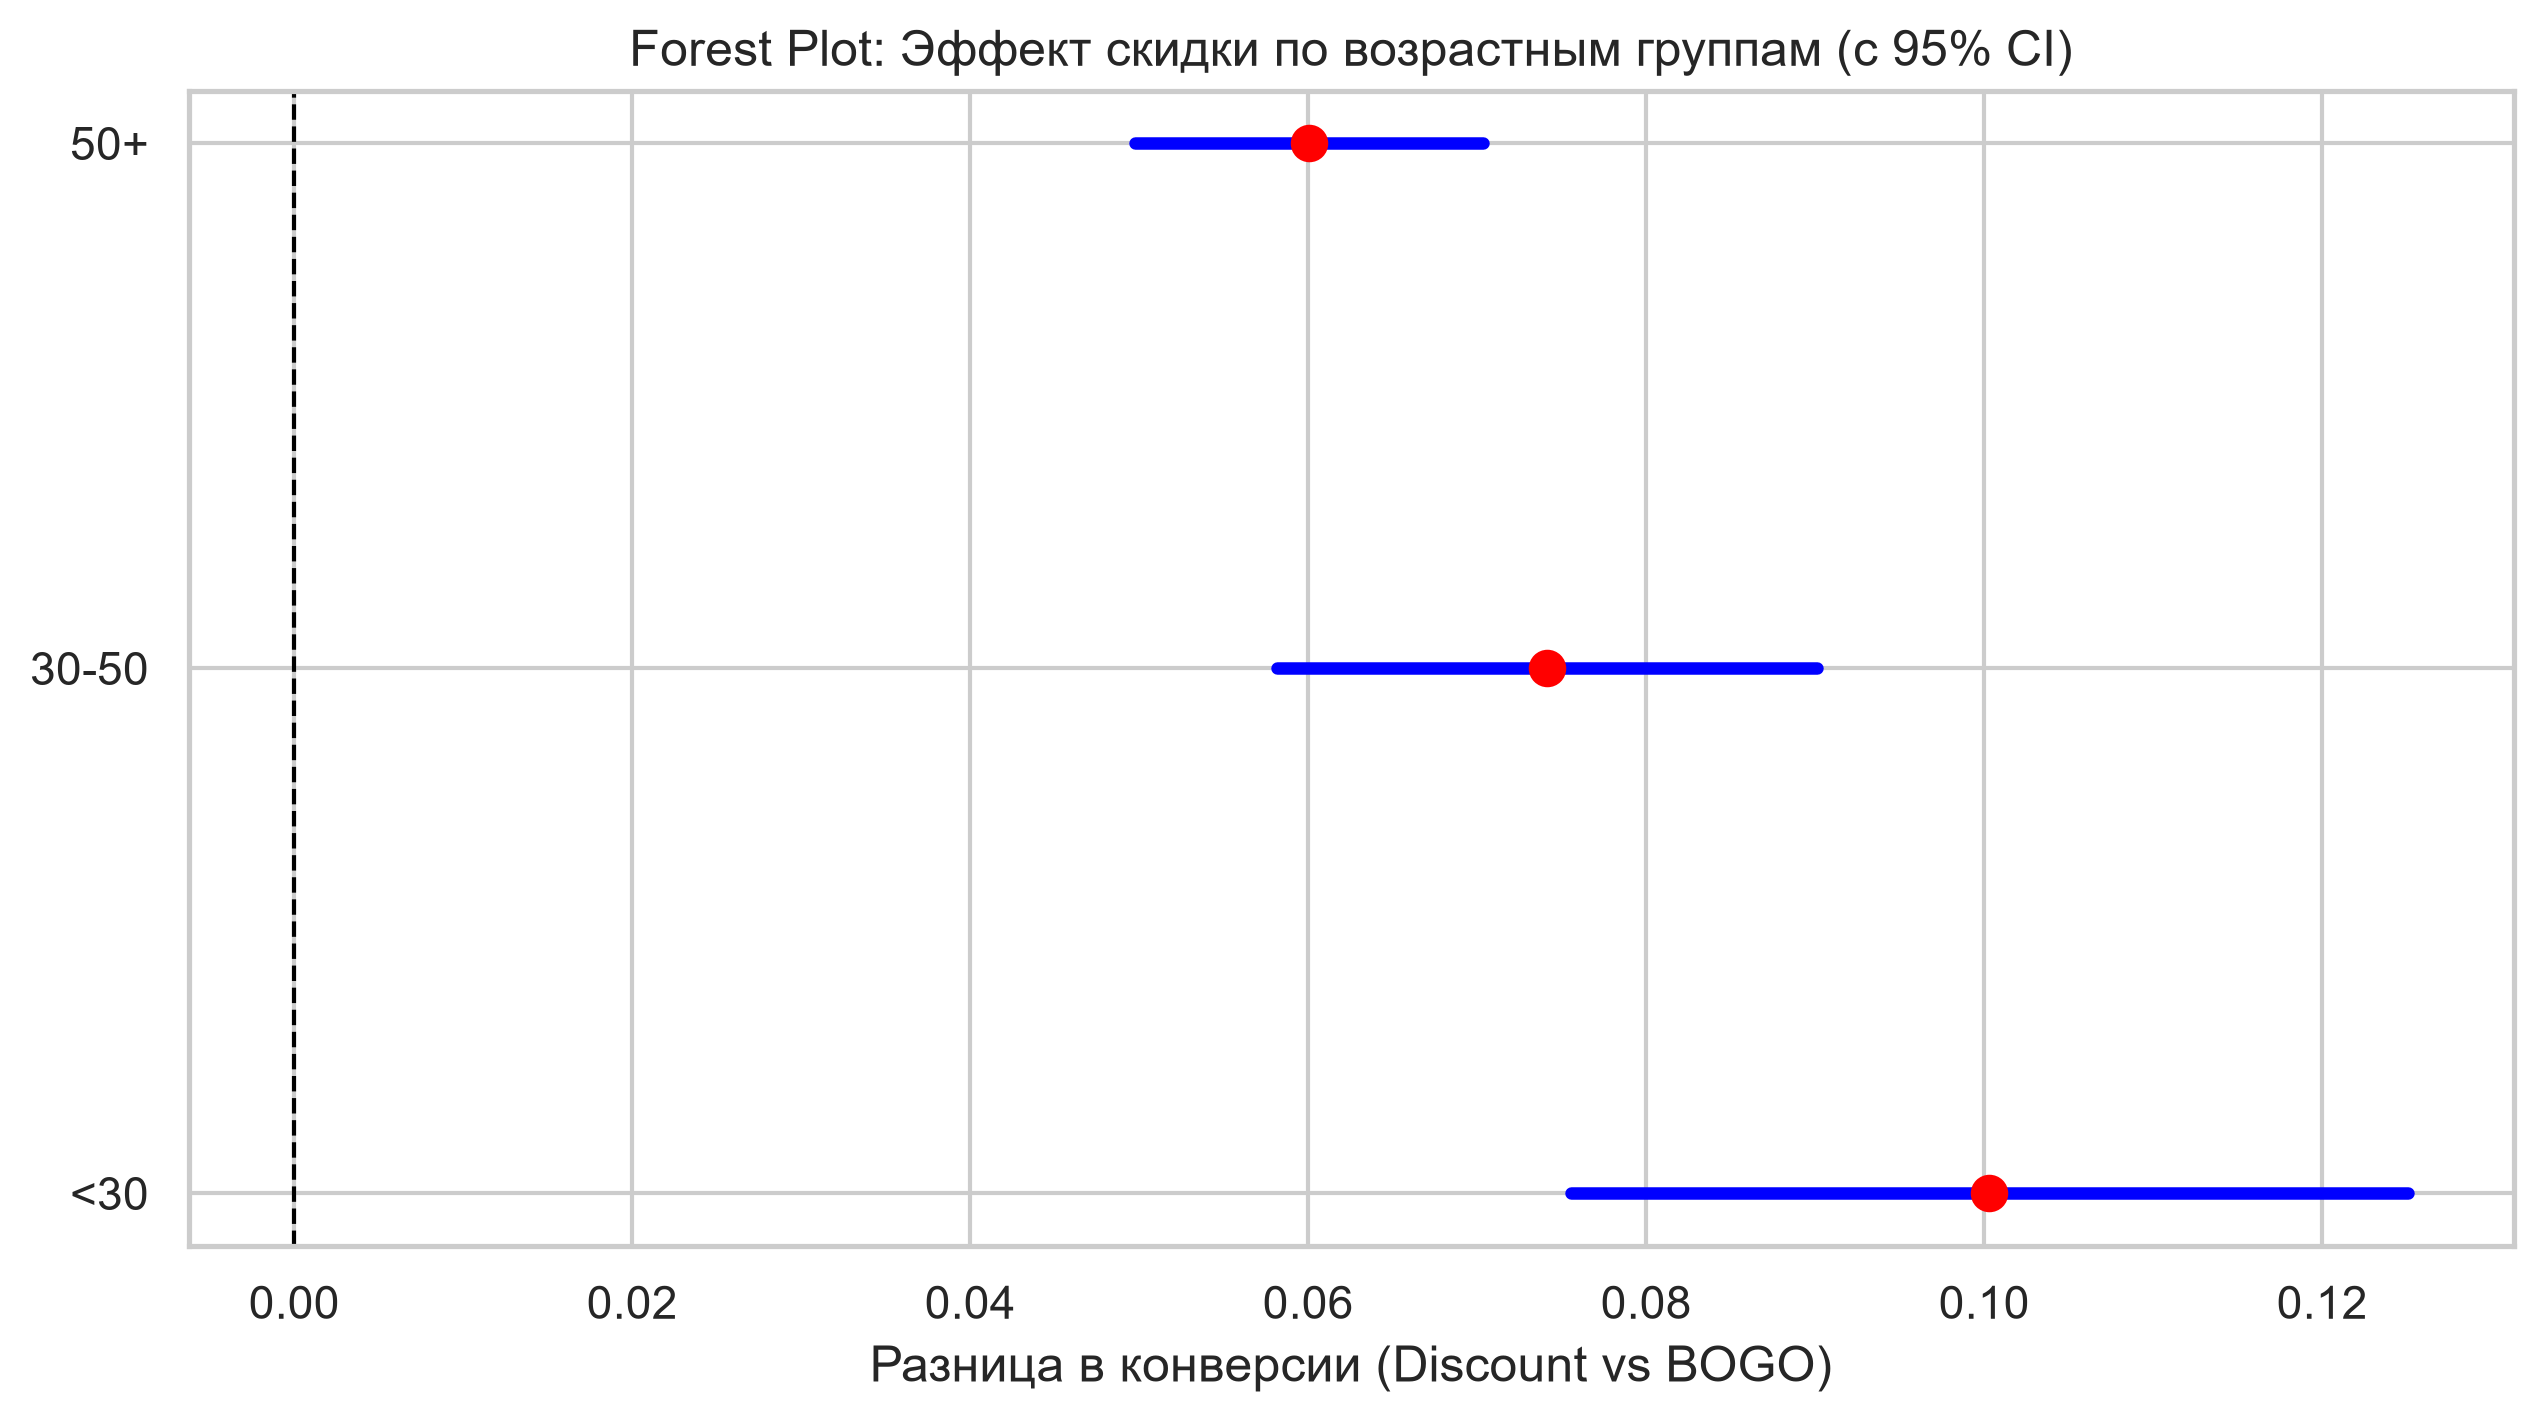
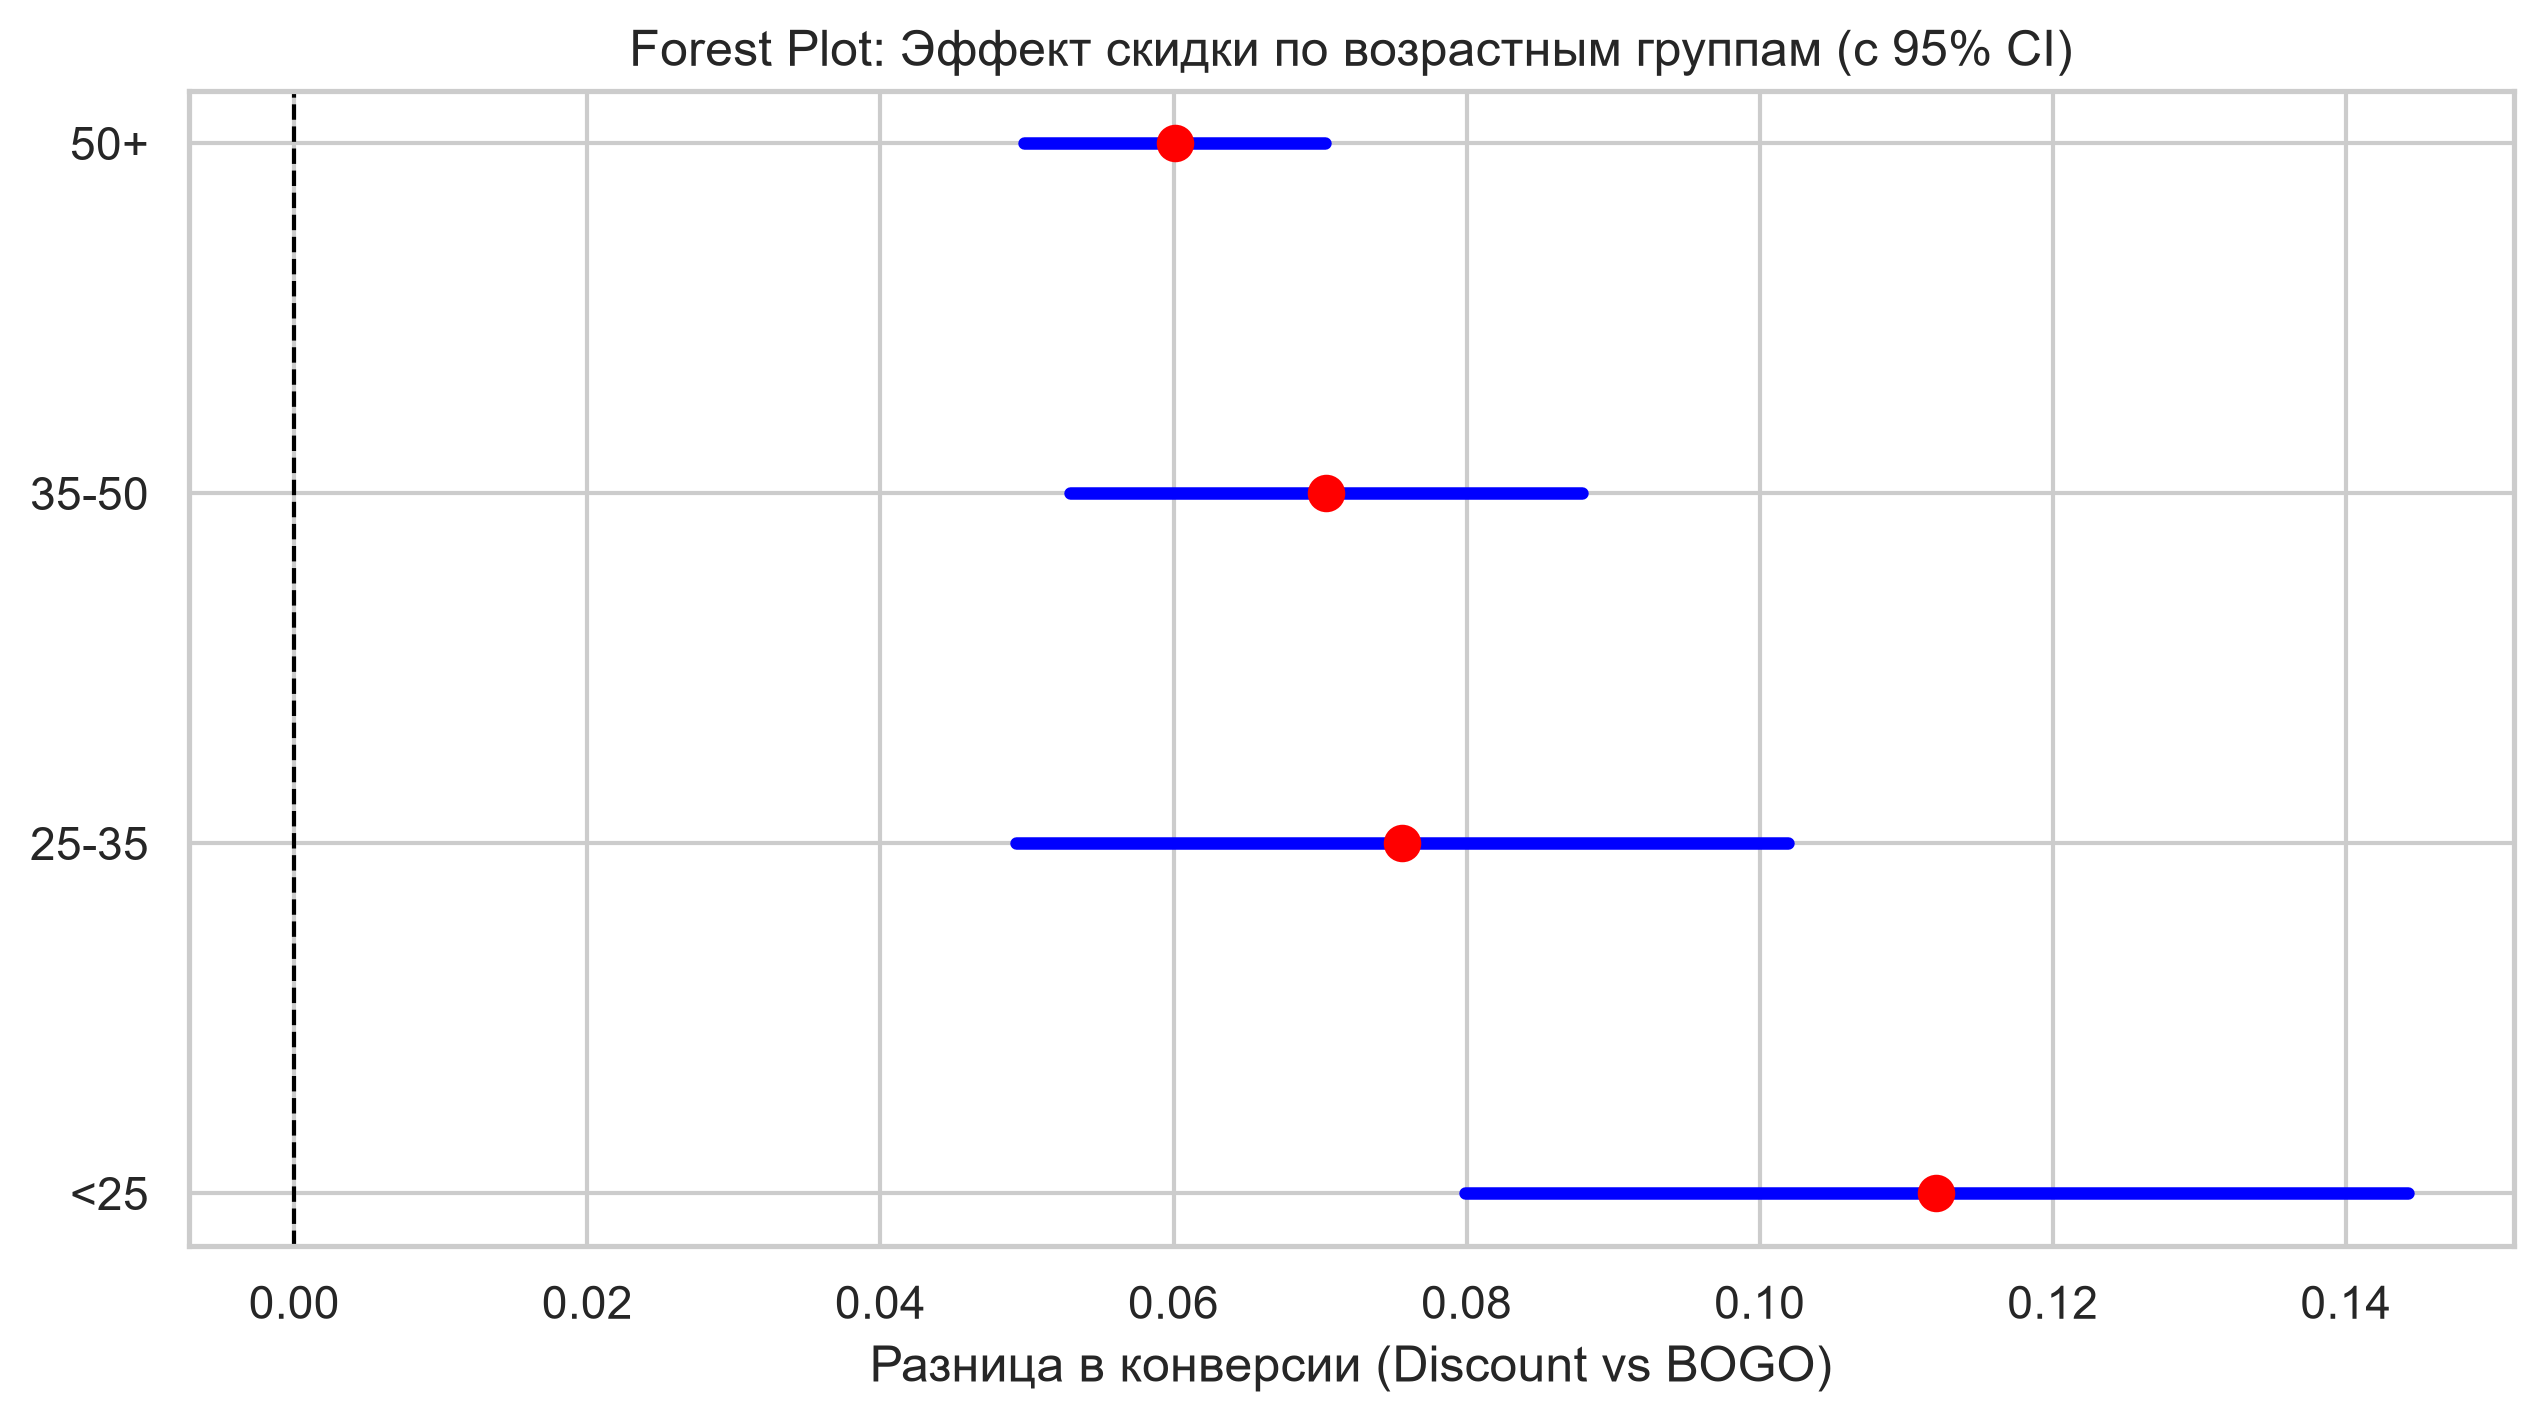
Readme edits

diff --git a/README.md b/README.md
@@ -18,6 +18,7 @@
 3. **Сравнительный анализ:** расчёт конверсии и Net Revenue по типам офферов, z-тест для пропорций.
 4. **Сегментация:** анализ конверсии по возрастным группам и уровню дохода.
 5. **Логистическая регрессия:** оценка влияния типа оффера и демографии на вероятность конверсии (с кластеризованными стандартными ошибками по пользователю).
+6. Для проверки гипотез в сегментах (CATE по возрастным группам) применялась поправка Бонферрони на множественные сравнения. Поскольку анализировались 4 возрастные группы, скорректированный уровень значимости составил α = 0.05 / 4 = 0.0125. Все полученные эффекты прошли проверку на этом более строгом уровне значимости.
 
 ## Ключевые результаты
 
@@ -34,7 +35,7 @@
 ### CATE: эффект скидки по возрастным группам
 ![Forest plot](reports/figures/forest_plot_cate_by_age.png)
 
-*Доверительные интервалы пересекают ноль — значит, эффект скидки не отличается статистически значимо между возрастными группами. Скидки работают универсально.*
+Эффект скидки положителен и статистически значим во всех возрастных группах. При этом разница эффекта между группами статистически незначима (interaction p = 0.583), что подтверждает универсальность скидки.
 
 ### Экономика офферов: выручка vs затраты
 ![Экономика офферов](reports/figures/net_revenue_by_offer_type.png)
@@ -75,6 +76,7 @@
 - **Отсутствие временных рядов** → нельзя оценить долгосрочный эффект (retention, LTV).
 - **Возможный двойной учёт конверсий.** Если пользователь получил несколько офферов, и одна транзакция попала в окна действия нескольких офферов, она будет засчитана как конверсия для каждого из них. Это может незначительно завышать конверсию. В будущем стоит либо брать только первый оффер в цепочке, либо использовать модель с конкурирующими рисками.
 - **Упрощённый расчёт Net Revenue.** Выручка считается как сумма всех транзакций пользователей, получивших оффер, без привязки к конкретному офферу. Это приближение, которое может завышать чистую прибыль.
+- **Пропуски в данных о возрасте.** При очистке данных пользователи с аномальным возрастом (118 лет) были помечены как имеющие пропуски. Мы провели проверку на смещение (bias check) и выяснили, что пользователи с отсутствующим возрастом (которые также не имели данных о поле и доходе и были исключены из профиля) имеют схожий уровень конверсии — 13.6% против 14.5% у пользователей с известным возрастом. Поскольку разница составляет менее 1 п.п., мы считаем риск существенного смещения в сегментном анализе минимальным.
 
 ## Стек
 - Python 3.14
